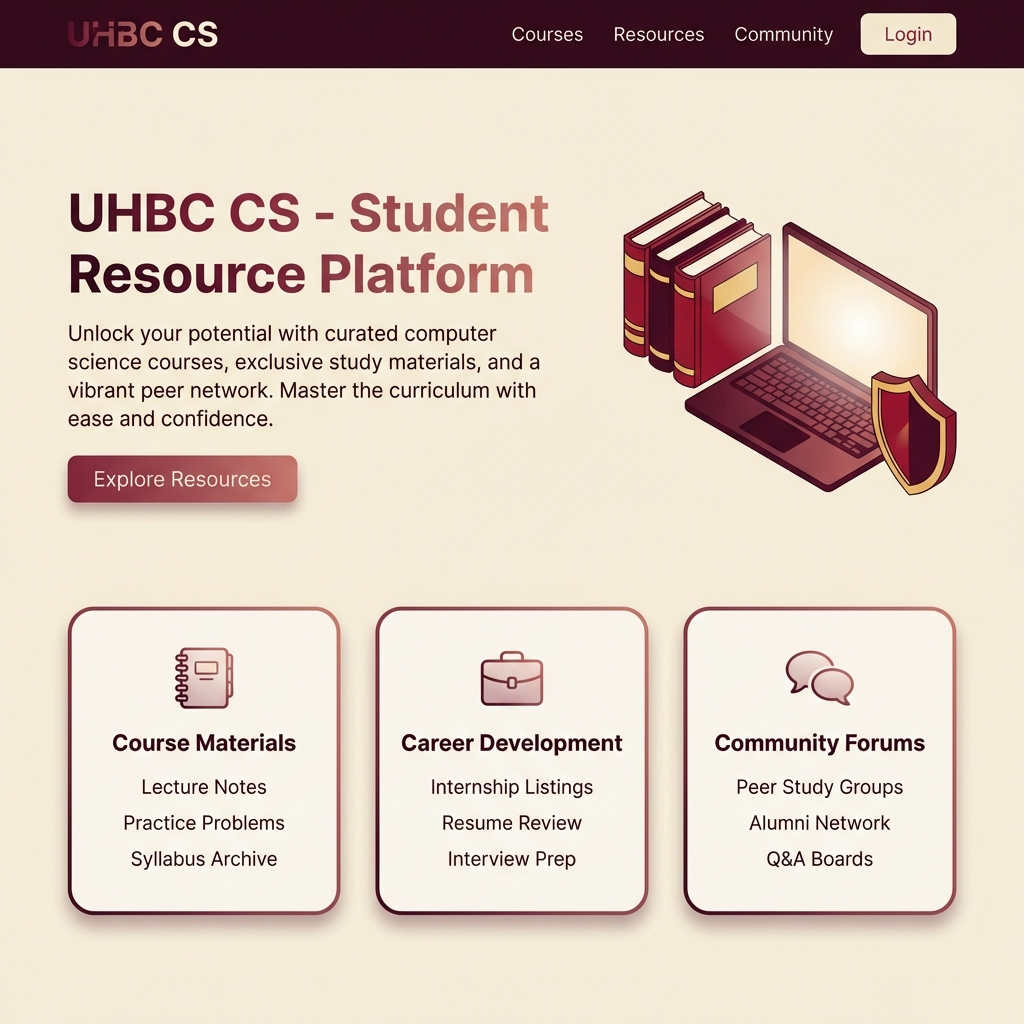
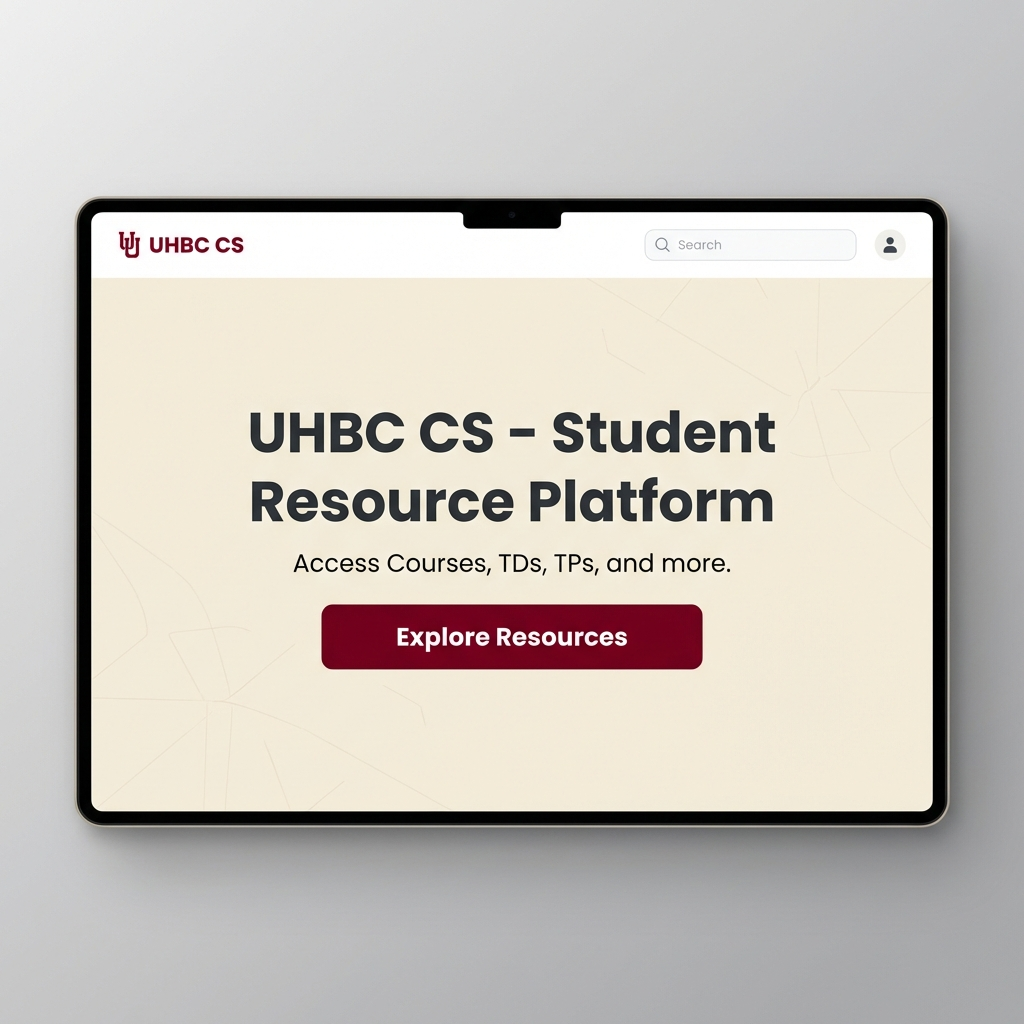
update

diff --git a/index.html b/index.html
@@ -20,7 +20,7 @@
   <meta property="og:title" content="UHBC CS - Student Resource Platform" />
   <meta property="og:description"
     content="Access all your UHBC Computer Science resources - Courses, TDs, TPs, and Code files in one place" />
-  <meta property="og:image" content="C:\Users\rayan\OneDrive\Documents\GitHub\l2-cs-ressourses-hub\public\Home_preview.png" />
+  <meta property="og:image" content="https://uhbccs.vercel.app/Home_preview.png" />
   <meta property="og:image:width" content="1200" />
   <meta property="og:image:height" content="630" />
   <meta property="og:image:type" content="image/png" />
@@ -31,7 +31,7 @@
   <meta property="twitter:title" content="UHBC CS - Student Resource Platform" />
   <meta property="twitter:description"
     content="Access all your UHBC Computer Science resources - Courses, TDs, TPs, and Code files in one place" />
-  <meta property="twitter:image" content="C:\Users\rayan\OneDrive\Documents\GitHub\l2-cs-ressourses-hub\public\Home_preview.png" />
+  <meta property="twitter:image" content="https://uhbccs.vercel.app/Home_preview.png" />
 
   <!-- Resource Hints - prefetch critical routes -->
   <link rel="dns-prefetch" href="https://www.googletagmanager.com" />
